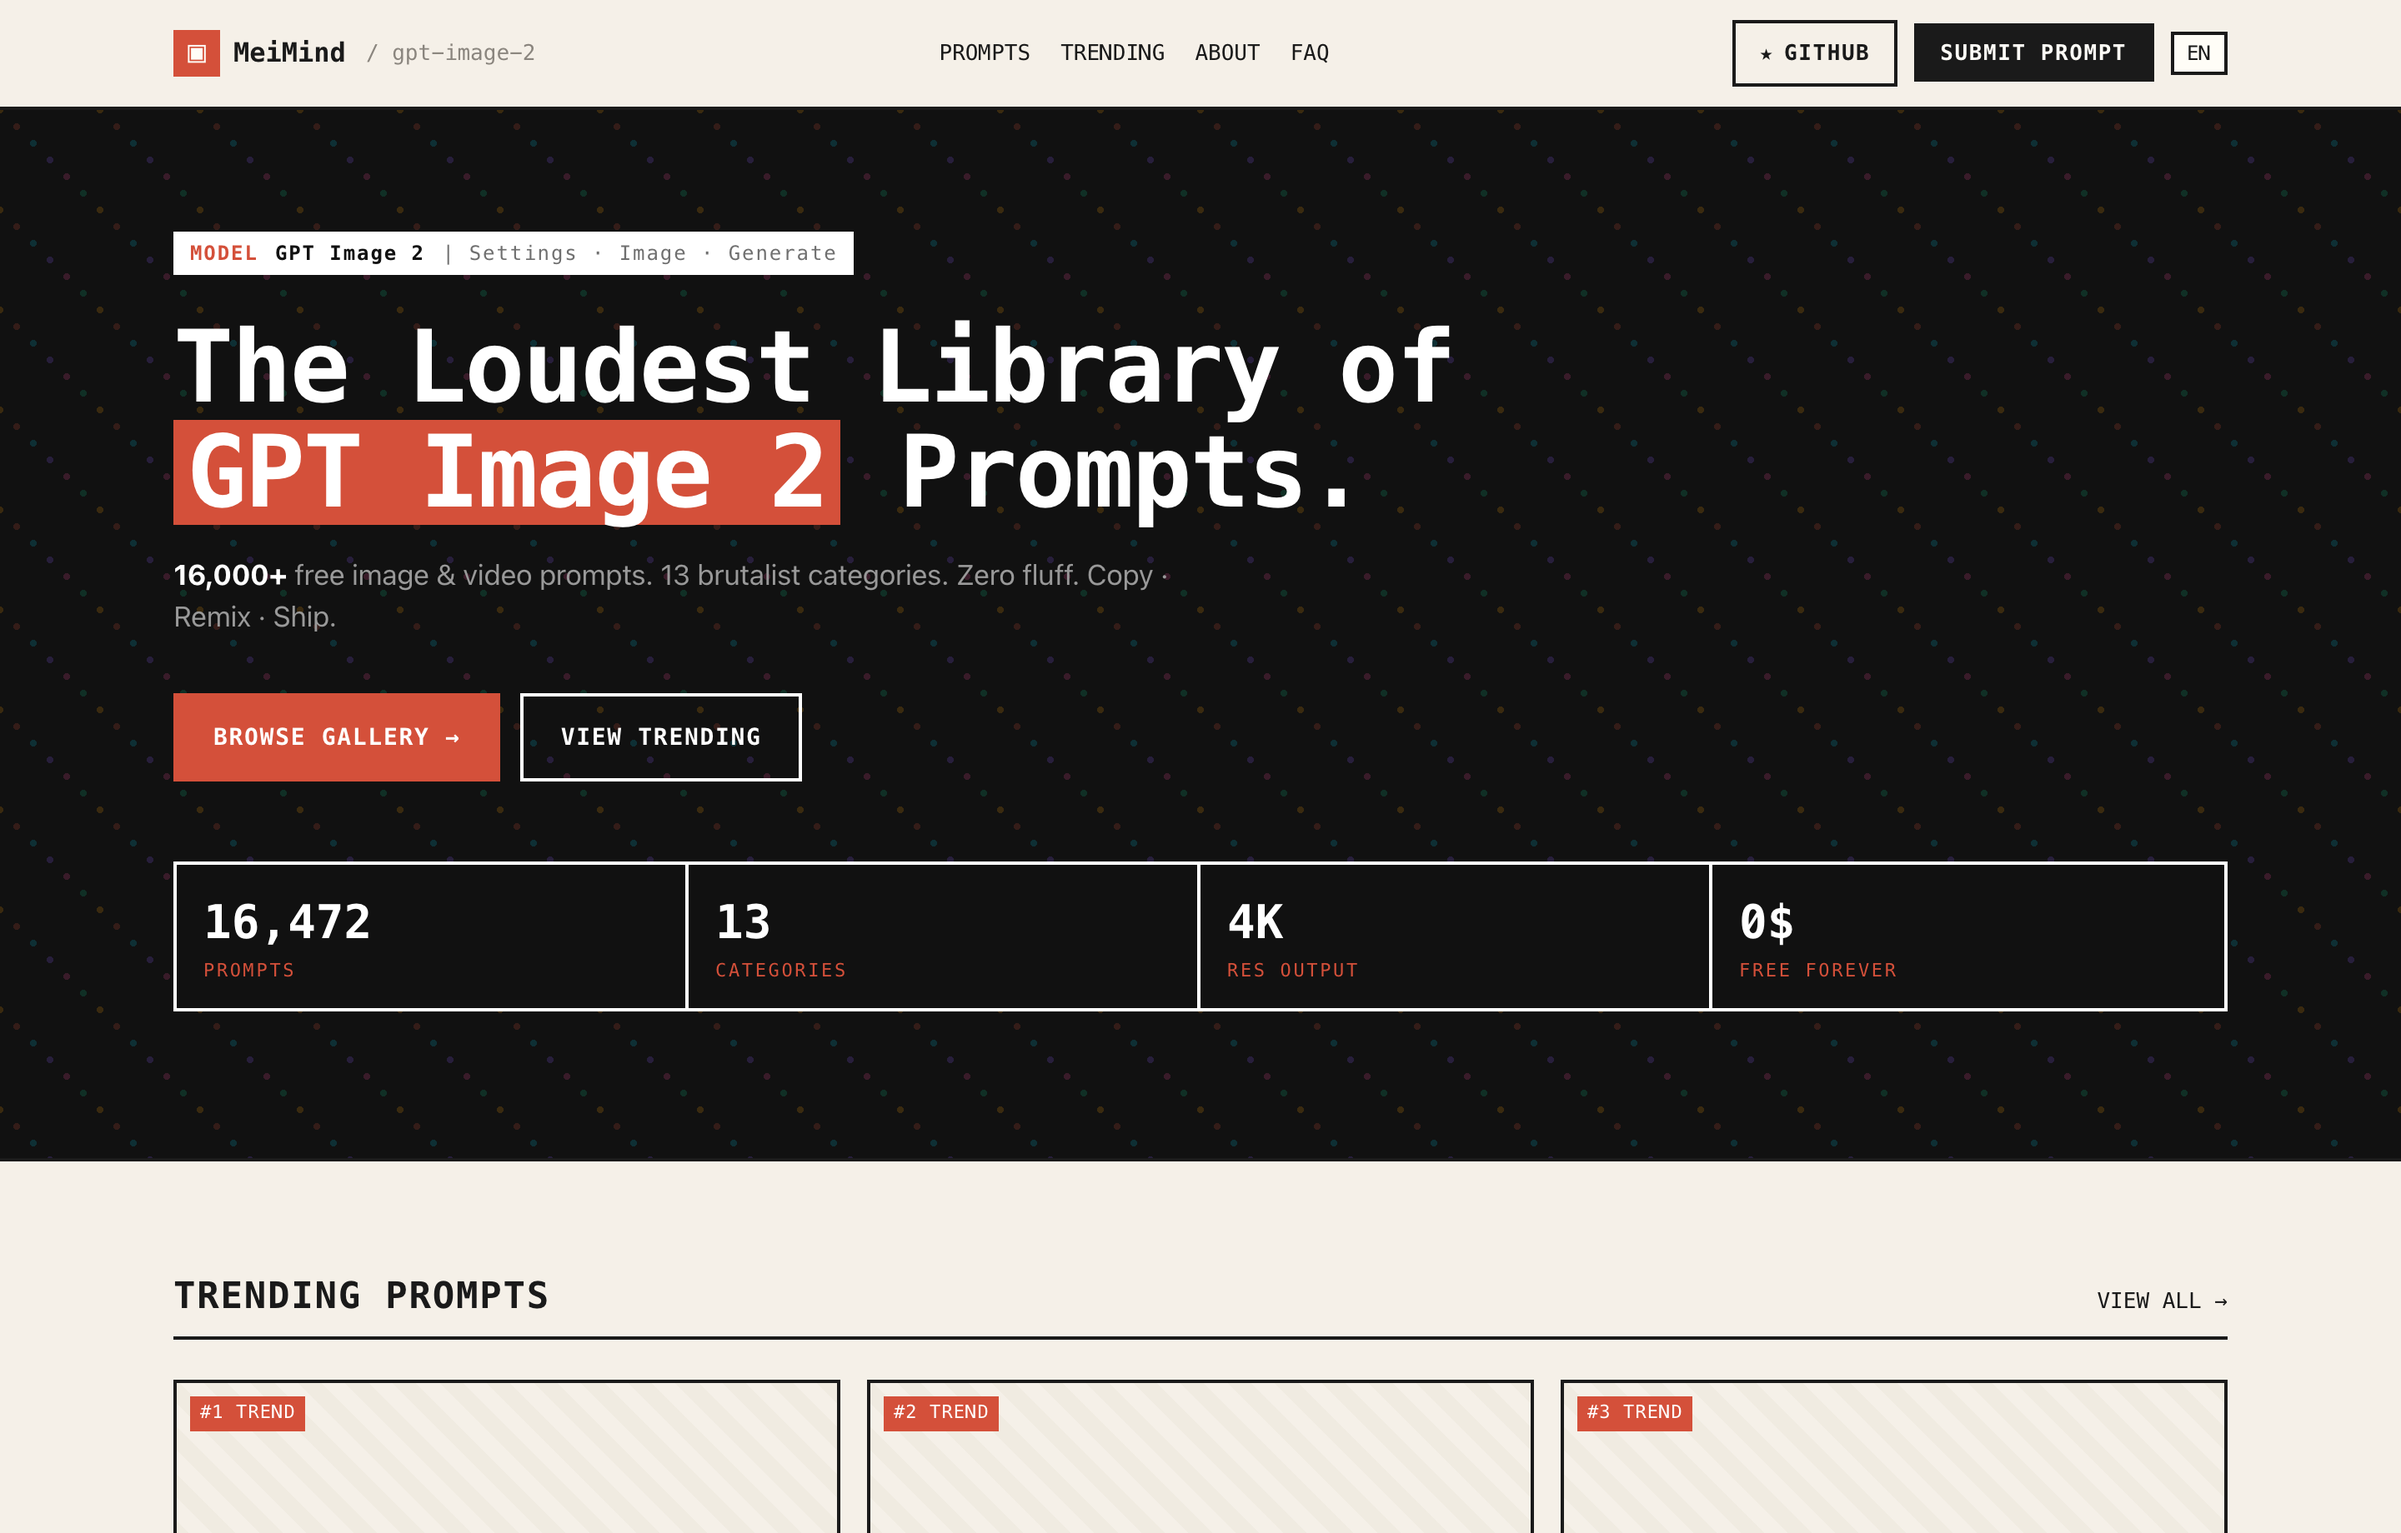
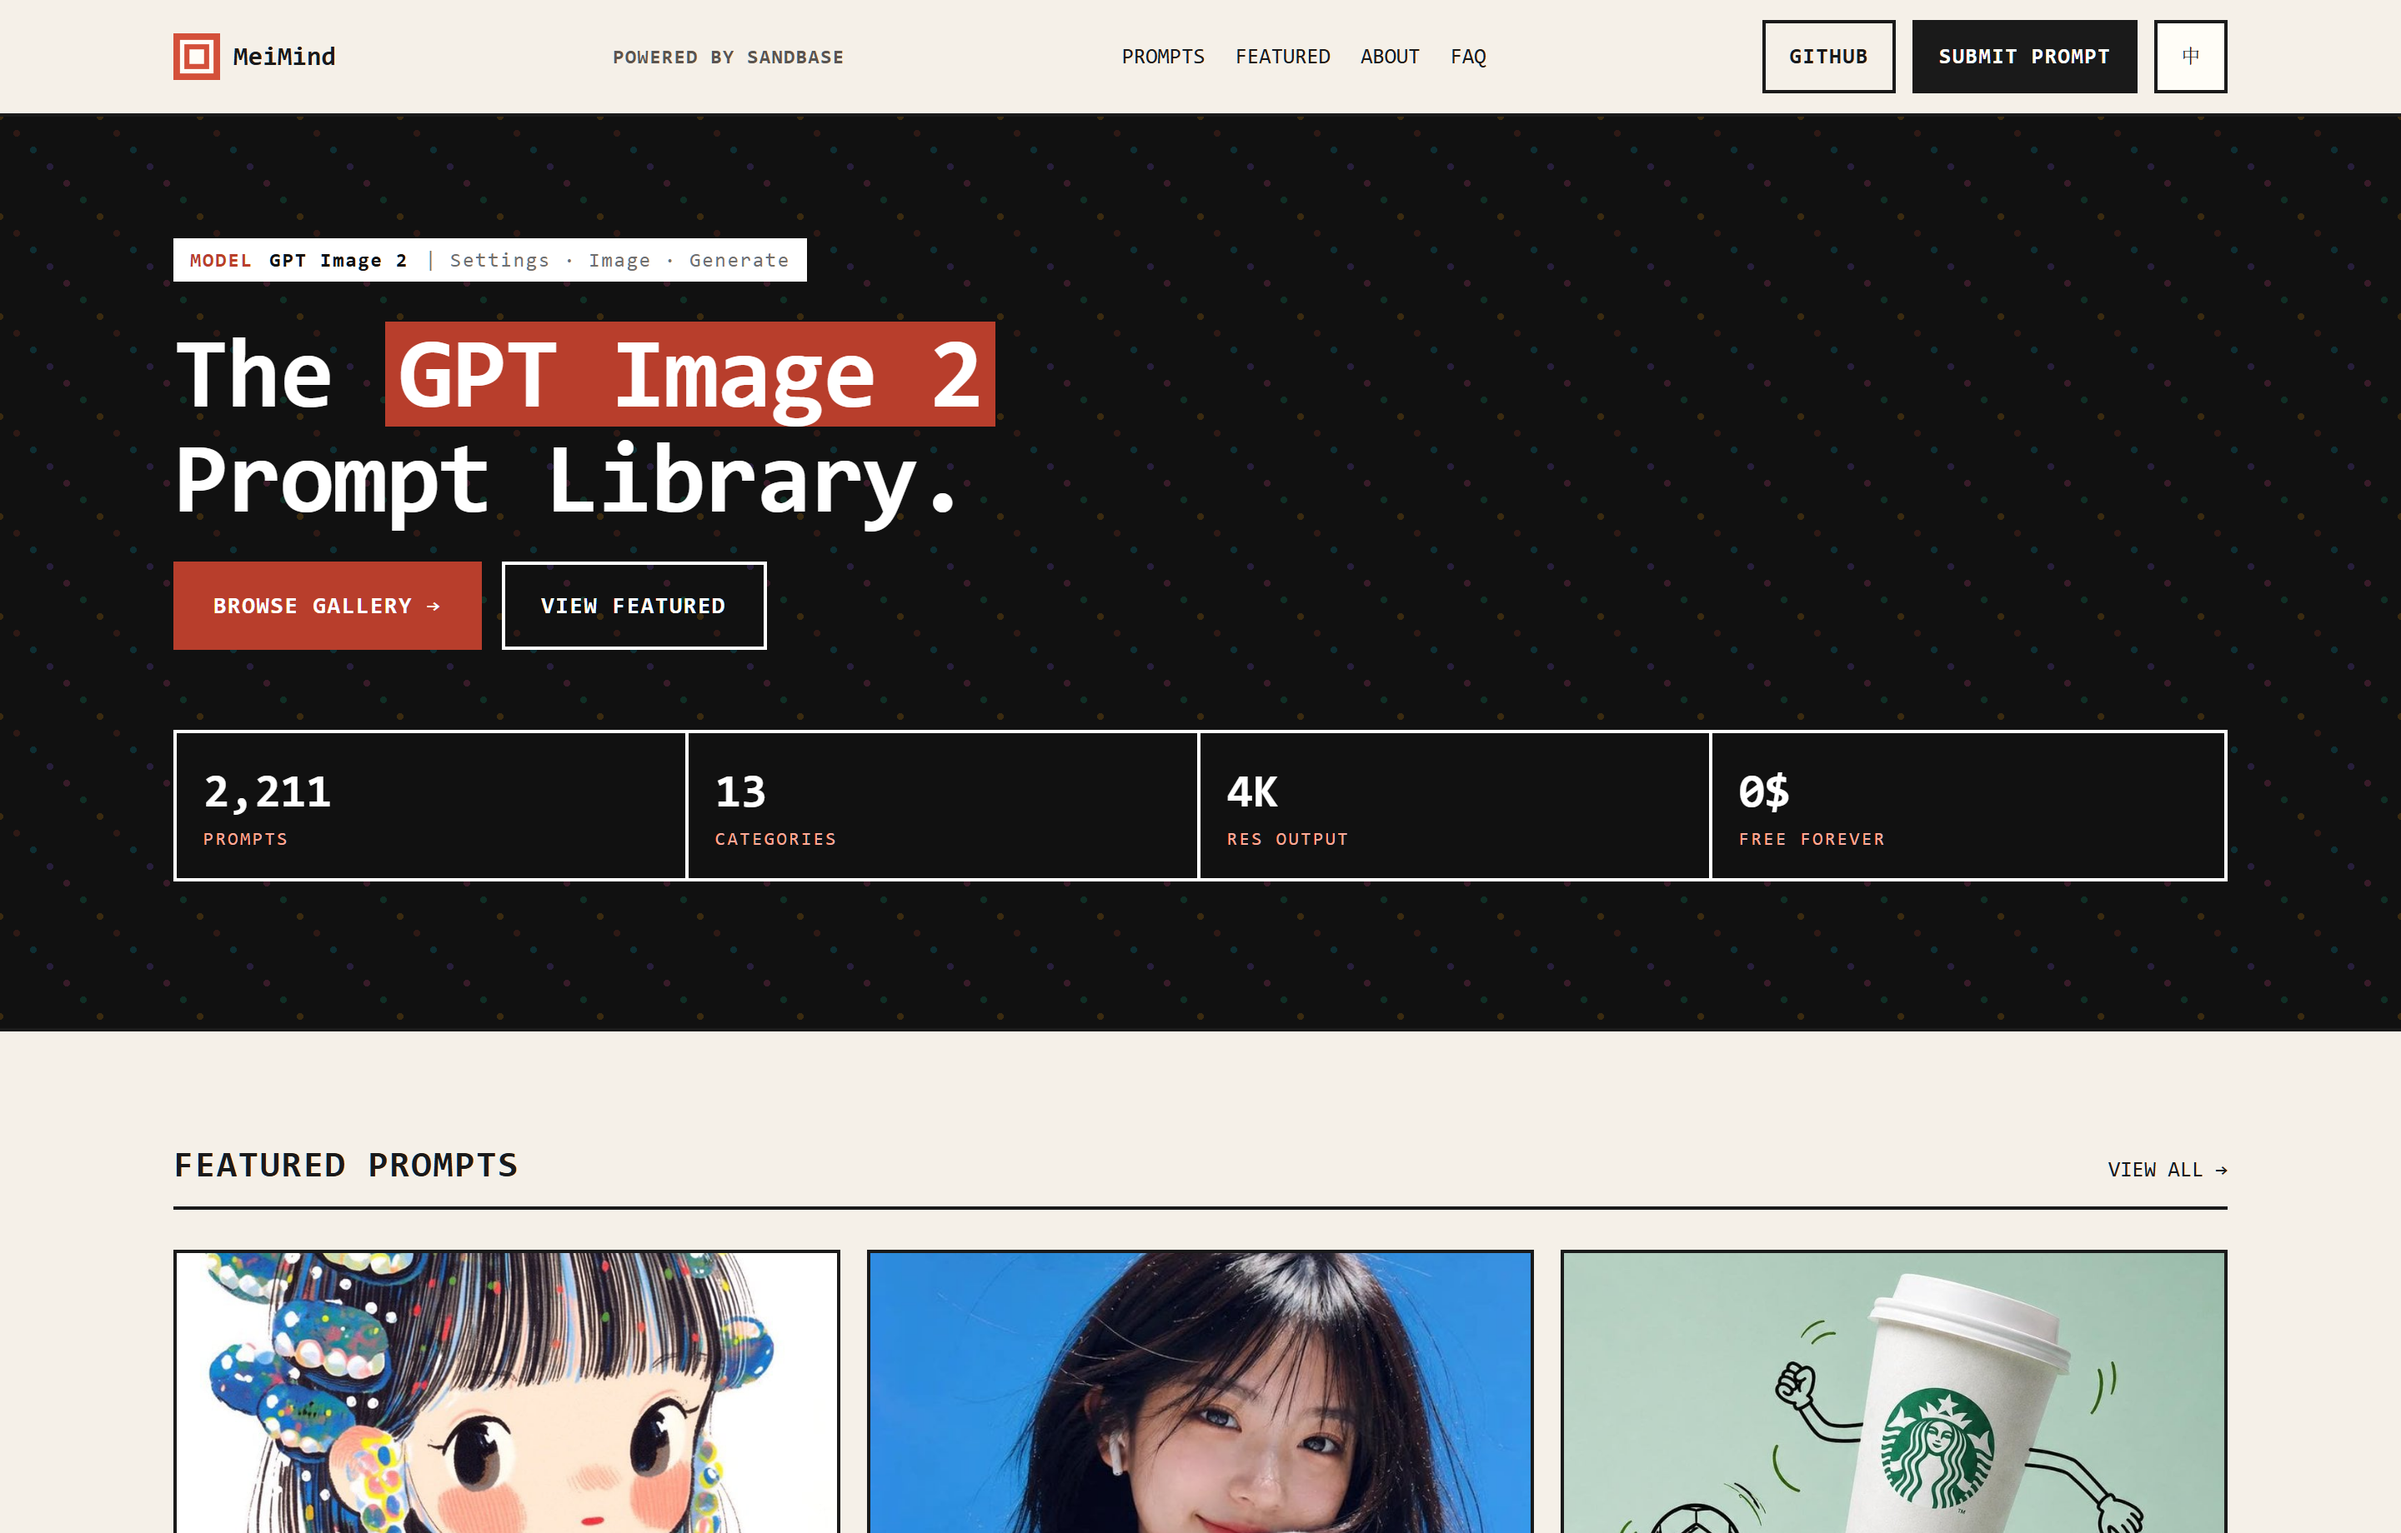
docs: refresh prompt gallery screenshots

diff --git a/README.md b/README.md
@@ -51,7 +51,7 @@
 ### 3. Featured Prompts Section
 > Source-flagged and latest cases surfaced for quick discovery; no unverified view-count claim.
 
-![Trending Section Preview](docs/images/trending-preview.png)
+![Featured Prompts Preview](docs/images/trending-preview.png)
 
 ---
 
